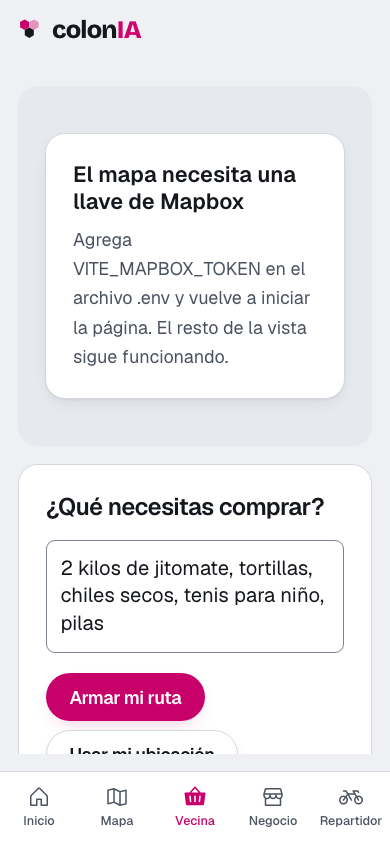
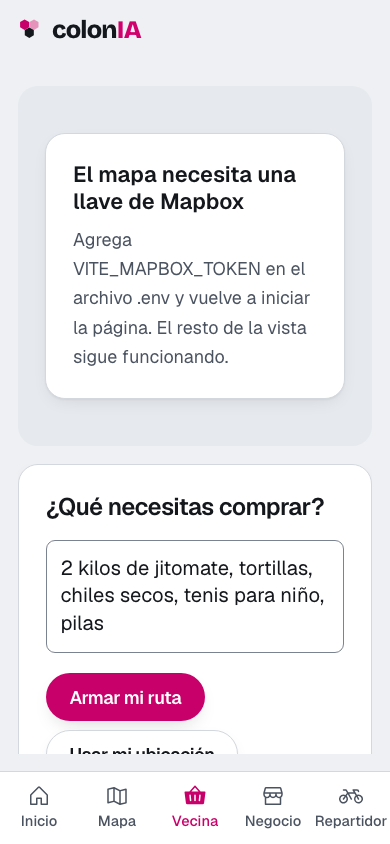
CO-028: arreglos del crítico de diseño (etiquetas de barra legibles, safe-area, sin blur, sombra neutra, tokens dormidos documentados) y capturas nuevas

diff --git a/web/src/lib/ui/NavBar.tsx b/web/src/lib/ui/NavBar.tsx
@@ -18,7 +18,7 @@ type NavBarProps = { items: NavItem[]; actual?: string };
 export function NavBar({ items, actual }: NavBarProps) {
   return (
     <>
-      <header className="relative z-20 flex h-(--pb-alto-nav) shrink-0 items-center justify-between gap-6 bg-(--pb-fondo)/90 px-4 backdrop-blur-sm md:px-8">
+      <header className="relative z-20 flex h-(--pb-alto-nav) shrink-0 items-center justify-between gap-6 bg-(--pb-fondo) px-4 md:px-8">
         <a href="#/inicio" className="rounded-full" aria-label="colonIA, ir al inicio">
           <Logo className="text-[1.4rem]" />
         </a>
@@ -30,7 +30,7 @@ export function NavBar({ items, actual }: NavBarProps) {
                 key={it.route}
                 href={`#/${it.route}`}
                 aria-current={activo ? "page" : undefined}
-                className={`inline-flex min-h-(--pb-alto-control) items-center rounded-full px-4 text-[0.9rem] font-medium motion-safe:transition-colors ${
+                className={`inline-flex min-h-(--pb-alto-control) items-center rounded-full px-4 text-base font-medium motion-safe:transition-colors ${
                   activo
                     ? "bg-(--pb-acento-suave) text-(--pb-acento-fuerte)"
                     : "text-(--pb-texto-2) hover:bg-(--pb-superficie-2) hover:text-(--pb-texto)"
@@ -55,7 +55,7 @@ export function NavBar({ items, actual }: NavBarProps) {
               key={it.route}
               href={`#/${it.route}`}
               aria-current={activo ? "page" : undefined}
-              className={`flex min-h-16 flex-col items-center justify-center gap-0.5 text-[0.7rem] font-medium ${
+              className={`flex min-h-16 flex-col items-center justify-center gap-0.5 text-[0.8125rem] font-medium ${
                 activo ? "text-(--pb-acento)" : "text-(--pb-texto-2)"
               }`}
             >

diff --git a/web/src/lib/ui/tokens.css b/web/src/lib/ui/tokens.css
@@ -1,6 +1,6 @@
 /* Design tokens · colonIA · Dirección C "Maqueta viva" (web/DESIGN.md, uak decision CO-028).
-   The city as an architect's model: white blocks on a cool concrete ground, cobalt where commerce is missing,
-   magenta pins for tianguis. Same --pb-* names as before so every view picks up the direction; map ramps are
+   The city as an architect's model: white blocks on a cool concrete ground, rosa mexicano where commerce is
+   missing, ink pins for tianguis. Same --pb-* names as before so every view picks up the direction; map ramps are
    read at runtime with leerToken() (web/src/lib/map/hex.ts). Contrast: text pairs ≥ 4.5:1, large/controls ≥ 3:1. */
 @font-face {
   font-family: "Bricolage Grotesque Variable";
@@ -37,7 +37,8 @@
   --pb-error: #b42318;
   --pb-sobre-acento: #ffffff;
 
-  /* Data labels (Etiqueta): text over its background ≥ 5.7:1. */
+  /* Data labels (Etiqueta): text over its background ≥ 5.7:1. DORMANT while MOSTRAR_TIPO_DATO is false;
+     they are the only non-rosa hues allowed and only inside Etiqueta. */
   --pb-real-texto: #006b45;
   --pb-real-fondo: #ddf5ea;
   --pb-estimado-texto: #1f3b8c;
@@ -75,7 +76,7 @@
   --pb-sombra: 0 1px 2px rgb(20 23 28 / 0.05), 0 6px 18px -6px rgb(20 23 28 / 0.1);
   /* Neutral shadows only (opacity ≤ 0.35, long and soft like a model under a lamp): elevation, never a halo. */
   --pb-sombra-alta: 0 2px 4px rgb(20 23 28 / 0.06), 0 18px 40px -20px rgb(20 23 28 / 0.35);
-  --pb-sombra-marca: 0 8px 20px -10px rgb(200 0 106 / 0.3);
+  --pb-sombra-marca: 0 8px 20px -10px rgb(20 23 28 / 0.25);
 
   --pb-font-display: "Bricolage Grotesque Variable", "Geist Variable", ui-sans-serif, system-ui, sans-serif;
 }

diff --git a/web/src/lib/ui/AppShell.tsx b/web/src/lib/ui/AppShell.tsx
@@ -15,8 +15,8 @@ export function AppShell({ items, actual, children }: AppShellProps) {
         Saltar al contenido
       </a>
       <NavBar items={items} actual={actual} />
-      {/* pb-16 on phones leaves room for the bottom bar; md:pb-0 because the tabs live in the top bar there. */}
-      <main id="contenido" className="relative min-h-0 flex-1 overflow-y-auto pb-16 md:pb-0">
+      {/* Bottom padding on phones leaves room for the bottom bar; md:pb-0 because the tabs live in the top bar there. */}
+      <main id="contenido" className="relative min-h-0 flex-1 overflow-y-auto pb-[calc(4rem+env(safe-area-inset-bottom))] md:pb-0">
         {children}
       </main>
     </div>

diff --git a/web/DESIGN.md b/web/DESIGN.md
@@ -32,6 +32,9 @@ actividad y el color es impulso. La interfaz es el marco; la maqueta es la prota
 | `--pb-marca` | `#d1006c` | "IA" del logo y titulares grandes |
 | `--pb-pin` | `#14171c` | pines de tianguis sobre bloques rosa |
 | `--pb-jade` / `--pb-error` | `#2f7a5a` / `#b42318` | solo estados de éxito y error |
+| `--pb-foco` / `--pb-sobre-acento` | `#a00055` / `#ffffff` | anillo de foco de 3 px; texto sobre el acento |
+| `--pb-vidrio` / `--pb-sombra-marca` | blanco 86 % / sombra de tinta 25 % | paneles sobre el mapa; sombra del primario |
+| `--pb-real-*`, `--pb-estimado-*`, `--pb-simulado-*` | (dormidos) | solo dentro de `Etiqueta`, hoy apagada |
 | Rampa actividad (altura) | `#f4f5f7 → #d9dde3 → #b3bac4 → #7c8390 → #3a414c` | bloques: de blanco a tinta |
 | Rampa impulso (color) | `#faf3f6 → #f3d2e2 → #e693bb → #d6438a → #b0005a` | tapas de los bloques: de blanco a rosa |
 | Oscuro | `--pb-hero-fondo #14171c`, `--pb-hero-superficie #20242b` | solo momentos de presentación |
